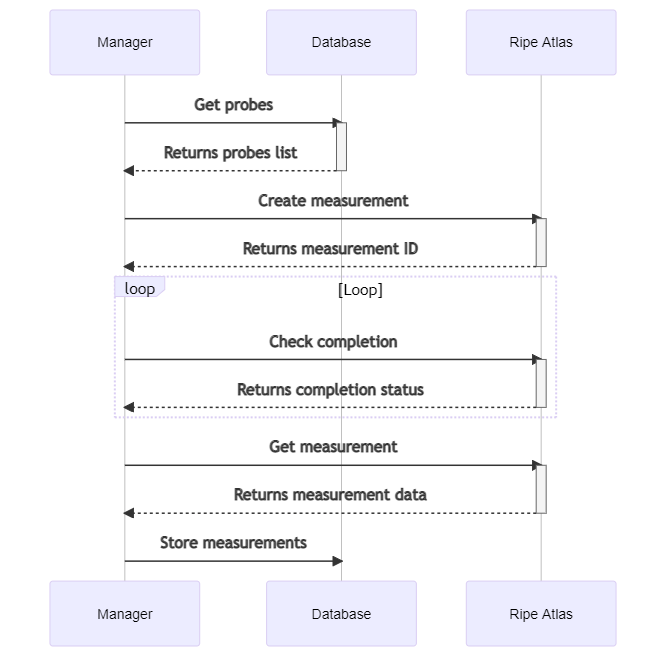
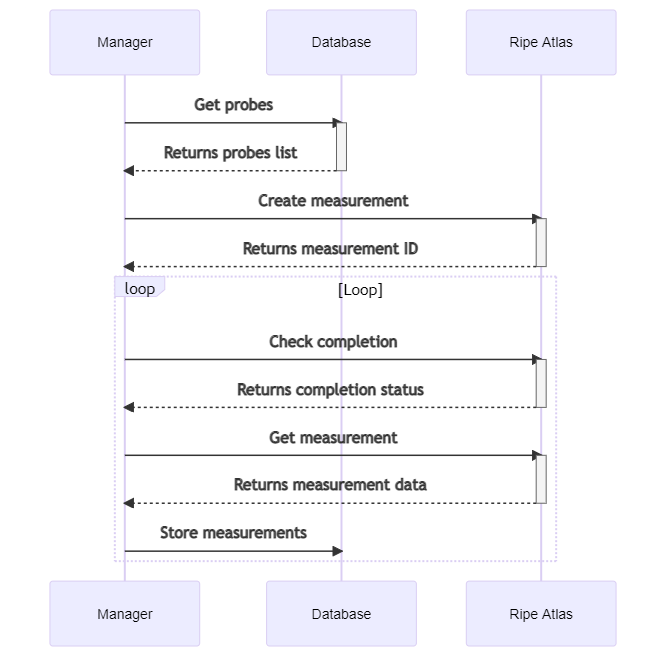
add new descriptions

diff --git a/docs/technical-design.md b/docs/technical-design.md
@@ -1,8 +1,16 @@
 # FC Latency Map Technical Design
 
-## Architecture diagrams
+## Description
 
-### System
+The FC Latency Map is composed of 2 services:
+
+- The <strong>Manager</strong> is responsible for getting all active miners and creating a latency metric for each. Manager data is stored in a local PostgreSQL database and each time measurements are made a JSON file is exported.
+
+- The <strong>Map</strong> is a tool for easily exploring exported JSON files. It imports the JSON files and displays a latency map.
+
+## Architecture
+
+### System diagram
 
 <img src="./images/fc-latency-map-architecture.png" width="800">
 
@@ -16,7 +24,7 @@
 
 <strong>Map:</strong> React application to display measurements.
 
-### Database
+### Database diagram
 
 Database [dbdiagram model file](./filecoin_latency_map_dbdiagram)
 
@@ -34,7 +42,7 @@ Active miners are retrieved from Filecoin Lotus node.
 
 First, the current active deals are retrieved.
 
-Then, active deals are parsed in order to get miners info that are stored in the database.
+Then the active offers are analyzed in order to obtain information about the minors which is stored in the database.
 
 #### Diagram
 
@@ -44,7 +52,7 @@ Then, active deals are parsed in order to get miners info that are stored in the
 
 #### Description
 
-Large airports are used to get relevant locations in the world.
+Large airports are used to obtain relevant locations around the world.
 
 They are imported from [https://datahub.io/core/airport-codes#data](https://datahub.io/core/airport-codes#data) and stored in the database.
 
@@ -56,9 +64,11 @@ They are imported from [https://datahub.io/core/airport-codes#data](https://data
 
 #### Description
 
-For each airports, a list a relevant probes are retrieved arround them.
+For each airport, a list of relevant probes is collected around them.
 
-They are search at close distance and until the limit is reached, the search is continuously done with increasing distance.
+They are searched at close range and until the limit is reached the search is done continuously with increasing distance.
+
+The coordinates of Ripe Atlas probes can be reversed (the latitude is longitube and vice versa), so that each probe location is double-checked with the [Maxmind.com](https://maxmind.com) service.
 
 #### Diagram
 
@@ -68,7 +78,11 @@ They are search at close distance and until the limit is reached, the search is 
 
 #### Description
 
-Create measures
+To get measurements:
+
+- The probes are first selected from the database.
+- Then, a traceroute measurement is sent to Ripe Atlas.
+- Finally a loop control for updating and completing the measurement.
 
 #### Diagram
 
@@ -78,14 +92,18 @@ Create measures
 
 #### Description
 
-Export reasults
+Everytime measures are retrieved results are exported in a JSON file. See <strong>JSON schema</strong> bellow for more details.
 
 #### Diagram
 
 <img src="./images/diagrams/export-measurements.png" width="40%">
 
-## JSON schema
+## JSON export schema
 
-[JSON Schema for exported data](./json/schema.json)
+Each export is represented by a JSON file with all active miners info, selected probes info, airports location info, and the measurements of the day.
+
+The JSON file schema is: [./json/schema.json](./json/schema.json)
+
+The JSON file naming convention is: `export-YYYY-MM-DD.json`
 
 ## Ripe Atlas costs

diff --git a/README.md b/README.md
@@ -8,7 +8,7 @@
 
 ## Description
 
-FC Latency Map is a service for [Filecoin](https://filecoin.io/) decentralized storage network to obtain latencies of all active miners.
+FC Latency Map is a service for [Filecoin](https://filecoin.io/) decentralized storage network to obtain a world latencies of all active miners.
 
 It uses [Ripe Atlas](https://atlas.ripe.net/) to collect measurements of active miners from relevant locations in the world.
 
